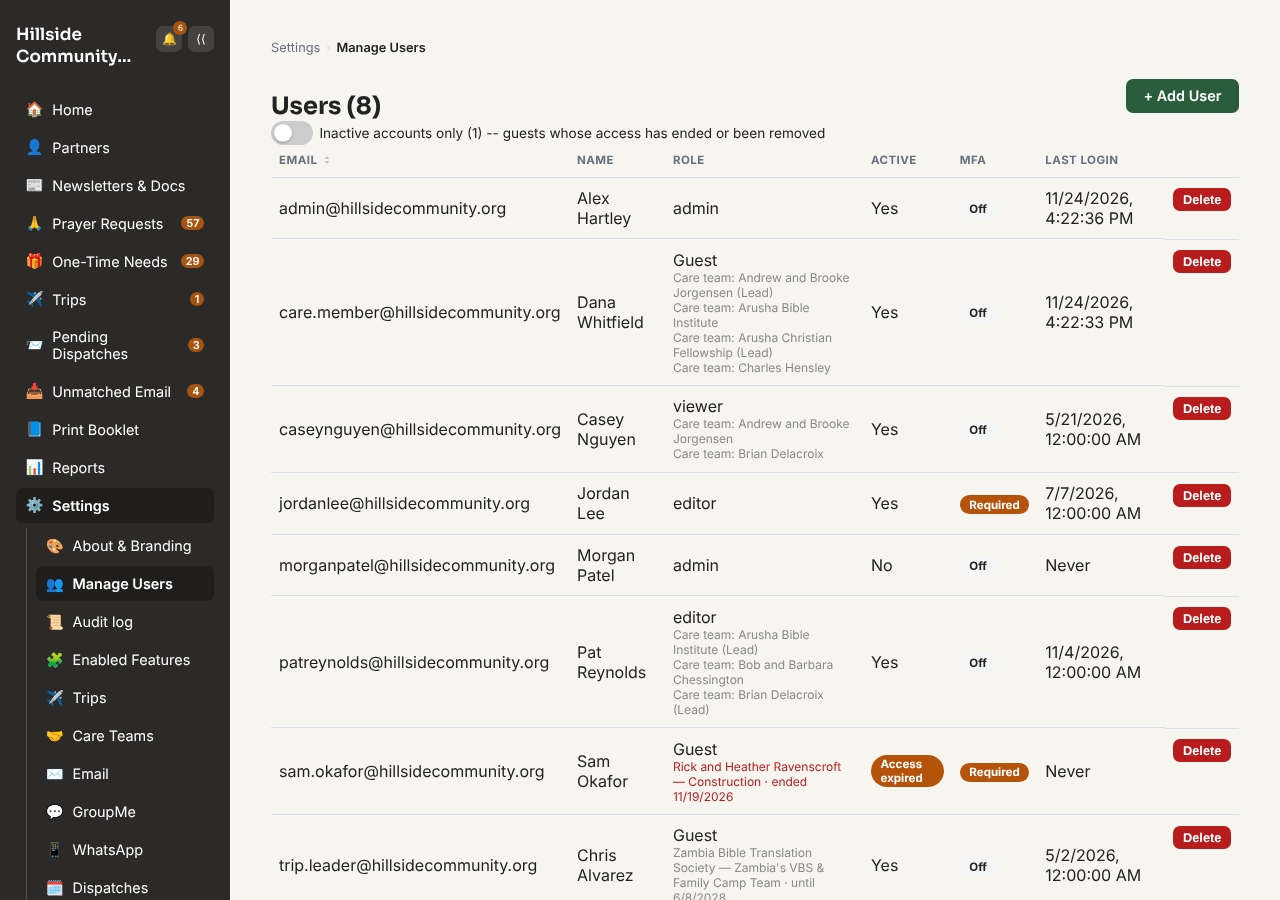
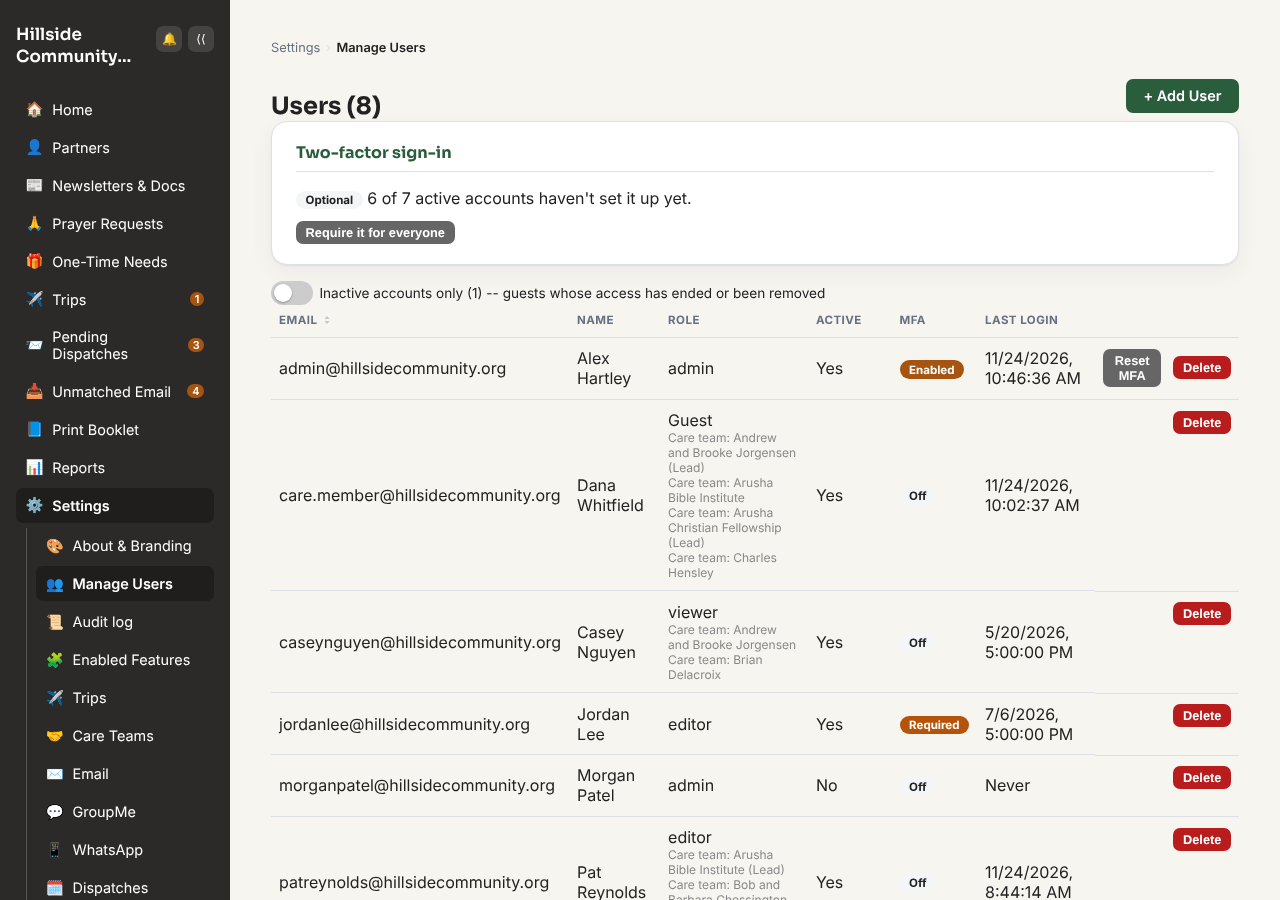
Docs for the church-wide two-factor requirement (#385)
USER_GUIDE (sign-in, Manage Users' new Two-factor sign-in panel, Reset MFA, My account, guests), ADMIN_GUIDE (Authentication setup, the security checklist), SPEC (MFA and the guest section: no rule is specific to a guest), demo/README (the demo never requires it, and the app refuses to turn it on there), CHANGELOG (Added, Changed, and the baseline-reset note for a database that ran 0.7.0). manage-users.png recaptured from the Hillside fixture with the new panel (enrolled admin, so the button shows enabled). A stale comment on the disable route is updated.

Claude-Session: https://claude.ai/code/session_01MmRKDYXLtPvHu3ZZXFwPQ9

diff --git a/backend/src/routes/auth.js b/backend/src/routes/auth.js
@@ -470,12 +470,10 @@ router.post("/mfa/verify-setup", requireAuthOrMfaSetup, async (req, res, next) =
 // Requires the current password (not just an active session) so a hijacked
 // browser tab can't silently strip MFA off the account.
 //
-// #356: MFA is required for a guest (their account is created with
-// mfaSetupRequired), so unlike every other role a guest enrols and
-// re-enrols from "My account" but cannot switch it off -- an admin who
-// needs to clear a lost authenticator uses routes/users.js's admin-side
-// MFA reset (POST /api/users/:id/mfa/reset), after which the guest must
-// enrol again at next sign-in.
+// While the church requires two-factor of everyone (#385) nobody, whatever their role, can
+// switch it off here -- an admin who needs to clear a lost authenticator uses
+// routes/users.js's admin-side MFA reset (POST /api/users/:id/mfa/reset), after which the
+// person is taken through enrolment again at next sign-in.
 router.post("/mfa/disable", requireAuth, async (req, res, next) => {
   try {
     // While the church requires two-factor, nobody can turn it off for themselves (#385).

diff --git a/USER_GUIDE.md b/USER_GUIDE.md
@@ -30,10 +30,12 @@ for why.
 ![The login page](docs/assets/screenshots/login-page.png)
 
 If your account has two-factor authentication enabled, you'll be prompted
-for a 6-digit code from your authenticator app after your password. If an
-admin has *required* MFA on your account but you haven't set it up yet,
-you'll be walked through enrollment (scan a QR code, confirm a code)
-before you can do anything else.
+for a 6-digit code from your authenticator app after your password. If
+your church requires two-factor for everyone (or an admin required it of
+your account) and you haven't set it up yet, you'll be walked through
+enrollment (scan a QR code, confirm a code) before you can do anything
+else. If your church turns the requirement on while you're signed in, your
+next click takes you back to sign-in, and you set it up then.
 
 ### Understanding your role
 
@@ -70,8 +72,9 @@ requirements/budget/flights, and can view (but not edit) those trips'
 partner pages — nothing else in the app. **Access ends 30 days after
 each trip's end date** unless an admin sets a different date, so a
 guest doesn't keep access forever; an admin can extend it, end it
-early, or remove a trip at any time. Guests sign in with a password and
-two-factor authentication, which is always required for them. Use it
+early, or remove a trip at any time. Guests sign in with a password, and
+with two-factor authentication when the church requires it of everyone
+(see [User management](#user-management-admin-only)). Use it
 for an actual trip leader or chaperone who needs to manage their own
 trip's logistics without a full account on everything else. See
 [SPEC.md § 5.1](SPEC.md#51-guest--a-scoped-login-not-a-4th-full-role)
@@ -872,7 +875,21 @@ needed:
 ### User management (Admin only)
 
 **Manage Users** lists everyone with access — email, role, active status,
-MFA status, last login. **+ Add User** opens its own page: email, name,
+MFA status, last login.
+
+At the top, **Two-factor sign-in** is one switch for the whole church:
+**Require it for everyone** makes every account, whatever its role,
+set up two-factor authentication. It shows how many active accounts
+haven't yet. Turning it on signs out anyone who hasn't set it up (their
+next click takes them back to sign-in, where they're walked through
+enrollment), and while it's on nobody can turn it off for themselves; if
+someone loses their authenticator, **Reset MFA** on their row sends them
+through enrollment again. It only turns on for an admin who has set up
+two-factor on their own account first, so it can't lock you out, and it
+can't be turned on for the public demo. It's off by default. Turning it
+on or off is recorded in the [Audit log](#audit-log-admin-only).
+
+**+ Add User** opens its own page: email, name,
 role (Admin, Editor, Viewer, or Guest — pick at least one trip for a
 Guest), then how they'll get access — **Send a welcome email** (on
 by default) emails them a one-time "Choose your password" link so you
@@ -903,18 +920,20 @@ create their login in one step.
 ![Add User's Care team step, choosing partners for a Guest to look after](docs/assets/screenshots/add-user-care-team.png)
 
 Editing an existing user (from their row in Manage Users) lets you change
-role, deactivate, force MFA enrollment, or reset a password. **Reset MFA**
-clears a locked-out user's two-factor setup so they can log back in with
-just their password and re-enroll — for your own account, use **Disable
-Two-Factor Authentication** on [Your account settings](#your-account-settings)
-instead, which requires your current password; **Reset MFA** on your own
+role, deactivate, require two-factor for just that account, or reset a
+password. **Reset MFA** clears a locked-out user's two-factor setup so
+they can log back in and re-enroll (with just their password, or straight
+into enrollment if the church requires two-factor) — for your own account,
+use **Disable Two-Factor Authentication** on [Your account settings](#your-account-settings)
+instead (not available while the church requires it), which requires your
+current password; **Reset MFA** on your own
 row is blocked here, since skipping that password check is exactly how a
 hijacked session could silently strip your own two-factor protection.
 You can't delete your own account, and the app won't let you demote,
 deactivate, or delete the last active admin — there's always at least
 one way back in.
 
-![The Manage Users page, listing role, active status, and MFA status](docs/assets/screenshots/manage-users.png)
+![The Manage Users page: the Two-factor sign-in panel, then each account with its role, active status and MFA status](docs/assets/screenshots/manage-users.png)
 
 ### Database Backups (Admin only)
 
@@ -1555,11 +1574,11 @@ the Scan for requests button.
 can change your password (current password required) and enable/disable
 two-factor authentication — enabling walks you through scanning a QR code
 and confirming a code; disabling requires your current password. (A Guest
-sees just password and two-factor authentication here, and can't turn
-two-factor authentication off, since it's required for them — see
-[Understanding your role](#understanding-your-role). If a guest loses
-their authenticator app, an admin resets it from Manage Users and they set
-it up again at next sign-in.)
+sees just password and two-factor authentication here. When your church
+requires two-factor for everyone, nobody, whatever their role, can turn it
+off here, and the page says so. If you lose your authenticator app, an
+admin resets it from Manage Users and you set it up again at next
+sign-in.)
 
 If [Email (Sending)](#email-admin-only) is turned on for the church,
 there's also an **Email Dispatch** section here: a cadence (no

diff --git a/CHANGELOG.md b/CHANGELOG.md
@@ -14,7 +14,13 @@ see [UPGRADING.md](UPGRADING.md) for the actual update steps.
 
 ## [Unreleased]
 
+### Added
+
+- **One church-wide two-factor requirement ([#385](https://github.com/neckermann/missions-partner-tracker/issues/385)).** Manage Users has a **Two-factor sign-in** panel: **Require it for everyone** makes every account, whatever its role, set up two-factor. It shows how many active accounts haven't yet. While it's on, an account that hasn't set it up is sent to enrolment at sign-in and gets no session until it does; a session open when you turn it on stops working at the next request (the person is taken back to sign-in, where they enrol); and nobody can switch it off for themselves. Turning it on needs the admin doing it to have enrolled first (so it can't lock them out) and is refused on the public demo. Off by default; changes are in the Audit log. A 401 on an admin page now sends the person to sign in (their place remembered) instead of leaving the page showing errors, which also covers an expired session.
+
 ### Changed
+
+- **No two-factor rule is specific to a guest any more.** A guest used to be forced to enrol in four separate places (when created, when promoted, after an admin reset, and could never switch it off). They are now treated like every other role: the church-wide setting above is the one way to require it of everyone, and an admin can still require it of one account. Add User's "Require two-factor" box is no longer locked on for a guest, and My account no longer has guest-only wording.
 
 - **The demo seeds "last edited by" data.** Most demo partners, trips, prayer requests and needs now carry a demo editor's name and a date within the last ten weeks, so the **Last updated** column on Partners and Trips isn't blank on a fresh demo; about one in seven is left blank, as on a real install.
 
@@ -26,6 +32,11 @@ see [UPGRADING.md](UPGRADING.md) for the actual update steps.
 - **The Audit log export downloaded as `activity-log-….csv`**, a leftover from before the page was renamed; it is now `audit-log-….csv`. A link in the Admin Guide to the Audit log section was also dead.
 - **A link to a deleted record left the page on "Loading..." forever.** The partner, trip, participant and application pages now say the record wasn't found (or that you don't have access to it) and link back to the list. An old bookmark, or a tab left open across a demo reset, is the usual way to hit this.
 - **A guest's trip page never showed the Financial tab**, even with trip budgeting on, because the page asked for the church-wide trip settings, which are closed to guests. Whether budgeting is on now comes with the trip itself, and the trip pages no longer request the closed settings for a guest (#370).
+
+### Upgrading
+
+- **Database baseline changed again: a database that already ran 0.7.0 must be reset too (pre-1.0).** `ChurchSettings.requireTwoFactor` is folded into the single baseline `20261122092854_init` (SPEC §8.3), so `npx prisma migrate deploy` against a 0.7.0 database reads the baseline as already applied and adds nothing. Reset with the same steps and data-loss warning as before: `npx prisma migrate reset --force` from `backend/` (**erases all data**; back up first and re-create the admin with `node prisma/createAdmin.js`), or `npm run demo:reset:remote` / `npm run dev:reset:remote` for the demo and dev-test sites. The new baseline was regenerated from the schema and differs from the old one by that one column only.
+- **Guests are no longer forced to set up two-factor by default.** Turn on the church-wide **Two-factor sign-in** switch in Manage Users (after the admins have enrolled) to require it of everyone, guests included.
 
 ## [0.7.0] - 2026-11-24
 

diff --git a/ADMIN_GUIDE.md b/ADMIN_GUIDE.md
@@ -267,13 +267,21 @@ A few things worth knowing operationally:
   stored integration credential (Postmark, GroupMe, Joshua Project,
   WhatsApp) in the database — see
   [Rotating FIELD_ENCRYPTION_KEY](#rotating-field_encryption_key) below.
-- MFA (TOTP) is opt-in and self-service for the 3 full roles, or an
-  admin can force it on a specific account. A Guest account always has
-  MFA required: it's turned on when the account is created (or an
-  existing account becomes a guest), the guest enrols from My Account
-  and can change their own password there, but cannot switch MFA off. If
-  a guest loses their authenticator, Manage Users' MFA reset clears it
-  and they enrol again at next sign-in. See
+- MFA (TOTP) is opt-in and self-service for every role, and an admin can
+  force it on a specific account. **One church-wide switch** requires it
+  of everyone instead: **Settings → Manage Users → Two-factor sign-in →
+  Require it for everyone**. While it's on, an account that hasn't set it
+  up is sent to enrolment at sign-in and gets no session until it does;
+  a session already open when you turn it on stops working at the next
+  request (the person signs in again and enrols); and nobody can switch
+  it off for themselves. Before turning it on, make sure the admins have
+  enrolled: the switch only works for an admin who has set up two-factor
+  on their own account, and it shows how many active accounts haven't
+  yet. If someone loses their authenticator, Manage Users' **Reset MFA**
+  clears it and they enrol again at next sign-in. It is off by default,
+  can't be turned on for the public demo, and changes to it are in the
+  [Audit log](USER_GUIDE.md#audit-log-admin-only). No role is special:
+  a Guest is treated like everyone else. See
   [USER_GUIDE.md § Your account settings](USER_GUIDE.md#your-account-settings)
   for the user-facing flow.
 
@@ -567,8 +575,9 @@ login. In practice that means:
 - Deactivate promptly when someone leaves. Deactivating or deleting takes
   effect on their next request — sessions are re-checked against the
   database rather than trusted for their full lifetime.
-- Require two-factor for accounts that can write. A password alone is one
-  phishing email away from everything above.
+- Require two-factor, for everyone, with the church-wide switch in
+  Manage Users (see [Authentication setup](#authentication-setup)). A
+  password alone is one phishing email away from everything above.
 - Anyone who only needs what's public should use the public site, which
   runs every record through a masking serializer that hides restricted
   partners' names, photos and precise locations. They don't need an

diff --git a/SPEC.md b/SPEC.md
@@ -474,8 +474,13 @@ than by omission"). Roles exist to gate **writes**, not visibility:
   a deactivation/role-demotion takes effect on the user's very next
   request, not at token expiry.
 - **MFA**: self-service TOTP, opt-in per user; an admin can force
-  enrollment (`mfaSetupRequired`) without knowing the secret. Replay
-  protection via `mfaLastTimeStep`. SSO was removed in 3.1.0 — auto-
+  enrollment (`mfaSetupRequired`) of one account without knowing the
+  secret, or require it of every account with the church-wide
+  `ChurchSettings.requireTwoFactor` (#385): login sends an unenrolled
+  account to enrolment (no session), `requireAuth` ends a session for an
+  unenrolled account on the next request, the self-service disable is
+  refused, and the setting can only be turned on by an enrolled admin and
+  never on a demo deployment. Replay protection via `mfaLastTimeStep`. SSO was removed in 3.1.0 — auto-
   provisioning handed an account to anyone at the configured identity
   provider, which in a "any account reads everything" app was judged too
   wide; `authProvider` stays on the schema so `local`-only password auth
@@ -520,12 +525,13 @@ the "Inactive accounts only" filter lists just those so an admin can reach
 out and clean up. Grant changes are recorded in the audit log (§5.6): who granted,
 extended or removed access, and the deactivation that follows.
 
-**MFA is required for a guest** (`mfaSetupRequired` is forced on at
-creation and role change, and again by an admin MFA reset). A guest can
-change their own password and enrol MFA from "My account" (reversing
-#329 Finding 2, which had made them fully admin-managed), but cannot
-disable it. "My account" shows a guest password and MFA only — never the
-admin digest subscription.
+**No two-factor rule is specific to a guest** (#385; before it, guests were
+forced to enrol in four separate places). A guest is held to the church-wide
+requirement exactly like every other role (§5, MFA). A guest can change their
+own password and enrol MFA from "My account" (reversing #329 Finding 2, which
+had made them fully admin-managed), and can switch it off only while the
+church doesn't require it of everyone. "My account" shows a guest password and
+MFA only — never the admin digest subscription.
 
 | Can read | Can write |
 |---|---|

diff --git a/demo/README.md b/demo/README.md
@@ -51,12 +51,13 @@ requests and needs carry a demo editor's name and a date within the last ten wee
 in seven is left blank, so the **Last updated** column on Partners and Trips has something to sort
 and a record's "Last edited by" line something to show. The dates are relative to the reset.
 
-These are the **only** accounts with two-factor off (`mfaSetupRequired:
-false`): a shared, published account can't enrol an authenticator without
-locking every other visitor out. Every other guest the seed creates (for
-example the lapsed `sam.okafor@<admin's domain>`, who exists to populate the
-"Inactive accounts only" filter) keeps the normal rule -- two-factor required
--- and has a password nobody is told. **The published logins also look alike**,
+The demo never requires two-factor: a shared, published account can't enrol an
+authenticator without locking every other visitor out, so the church-wide
+**Two-factor sign-in** switch (Manage Users, #385) is off on a demo and the app
+refuses to turn it on while `DEMO_RESET_TOKEN` is set. The other guests the
+seed creates (for example the lapsed `sam.okafor@<admin's domain>`, who exists
+to populate the "Inactive accounts only" filter) have a password nobody is
+told. **The published logins also look alike**,
 for simplicity: the guests' emails use the demo admin's email domain (so with
 `DEMO_ADMIN_EMAIL=demo@missionspartnertracker.com` they are
 `care.member@missionspartnertracker.com` and `trip.leader@missionspartnertracker.com`;
